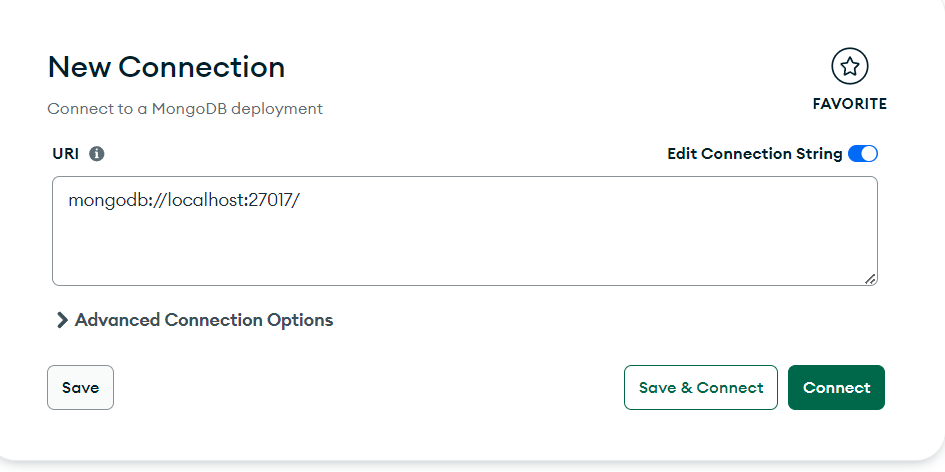
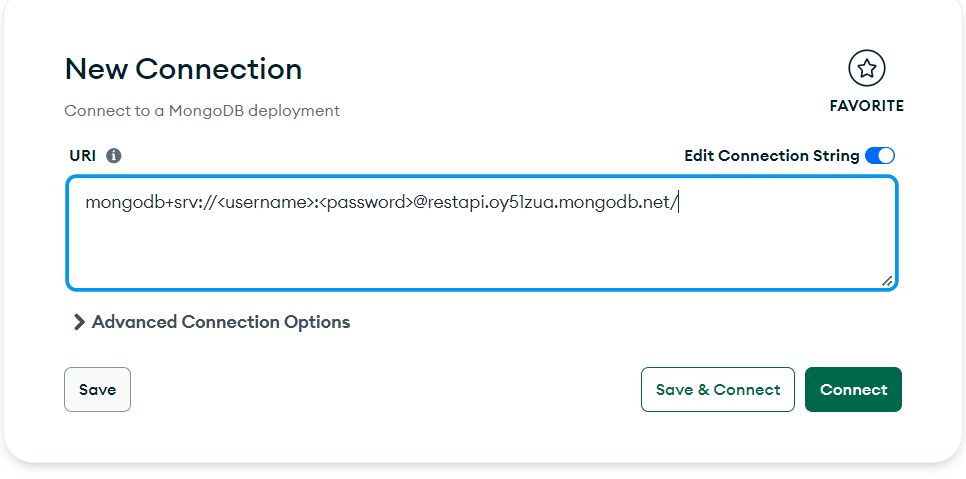
Resources modified, steps to create MongoDB cluster is added

diff --git a/posts/technology/How-to-build-rest-api-using-node-and-mongo-db.html b/posts/technology/How-to-build-rest-api-using-node-and-mongo-db.html
@@ -97,11 +97,36 @@
                             </section>
 
                             <section>
-                                <h3>2. Create a local database</h3>
+                                <h3>2. Create a cluster and connect to MongoDB compass</h3>
                                 <p>
-                                    Open MongoDB Compass and create a new connection.
-                                    <img src="../images/mongodb-connection.png"
-                                        alt="MongoDB Compass Connection Screenshot" height="250" width="500"> <br>
+                                    <ul>
+                                        <li>
+                                            Navigate to MongoDB Atlas <a href="https://www.mongodb.com/">(here)</a>
+                                        </li>
+                                        <li>
+                                            Sign In using your email address
+                                        </li>
+                                        <li>
+                                            Create a new cluster using a free tier
+                                        </li>
+                                        <li>
+                                            Create a new username and password
+                                        </li>
+                                        <li>
+                                            For connection click Compass <br>
+                                        </li>
+                                        <li>
+                                            Copy the MongoDB cluster url <br>
+                                            <img src="../images/mongodb-atlas-connection.png" alt="MongoDB Cluster URL" height="500" width="500">
+                                        </li>
+                                        <li>
+                                            Open MongoDB Compass and paste the url for new connection. Don't forget to replace the <code><username> and <password></code>
+                                            with your own username and password. <br>
+                                            <img src="../images/mongodb-connection.png"
+                                            alt="MongoDB Compass Connection Screenshot" height="250" width="500"> <br>
+                                        </li>
+                                    </ul>
+                                    <i>[If any querytxt or timeout error while connecting, try to create a new username and password] <br><br></i>
                                     Create a <code>.env</code> file inside the project folder. Once the MongoDB
                                     localhost connection was successfull, copy the connection link and replace the link
                                     below. The file <code>.env</code> file should looks like this.
@@ -291,6 +316,7 @@
                                     from render and include the route. <br> 
                                     For this project, the book catalog api end point is <code>/bookStack</code>
                                     <img src="../images/Final-output.png" alt="Output" height="500" width="800">
+                                    <i>[If you faced any eror in testing the api, try adding the ip address `0.0.0.0/0` to the MongoDB cluster network]</i>
                                 </p>
                             </section>
                             <section>
@@ -302,6 +328,9 @@
                                         </li>
                                         <li>
                                             The Entire Source code <a href="https://github.com/Rupa-Rd/BookCatalog-RestApi">(here)</a>
+                                        </li>
+                                        <li>
+                                            Play with the book catalog api <a href="https://www.postman.com/bold-space-532909-1/workspace/rest-api/collection/23650687-5c1274cd-d931-4f7a-bee3-ecd6a7ef0761?action=share&creator=23650687">(here)</a>
                                         </li>
                                     </ul>
                                 </p>
